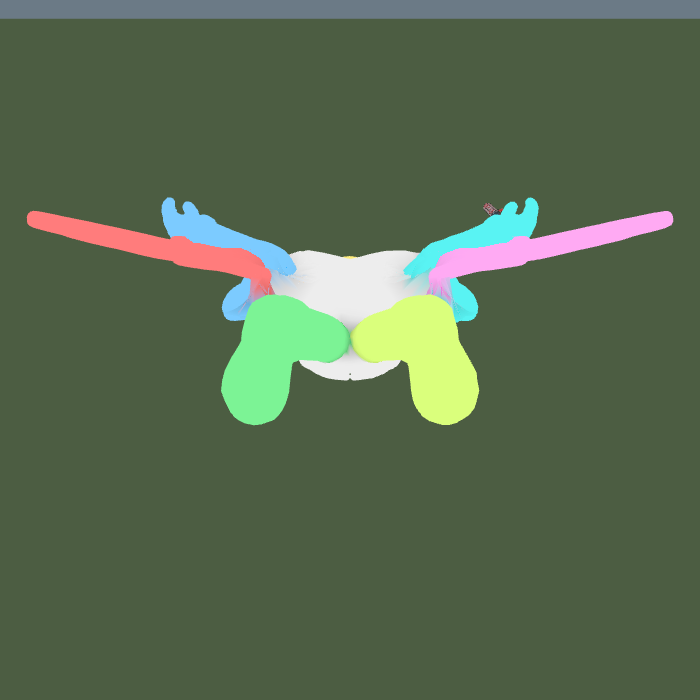
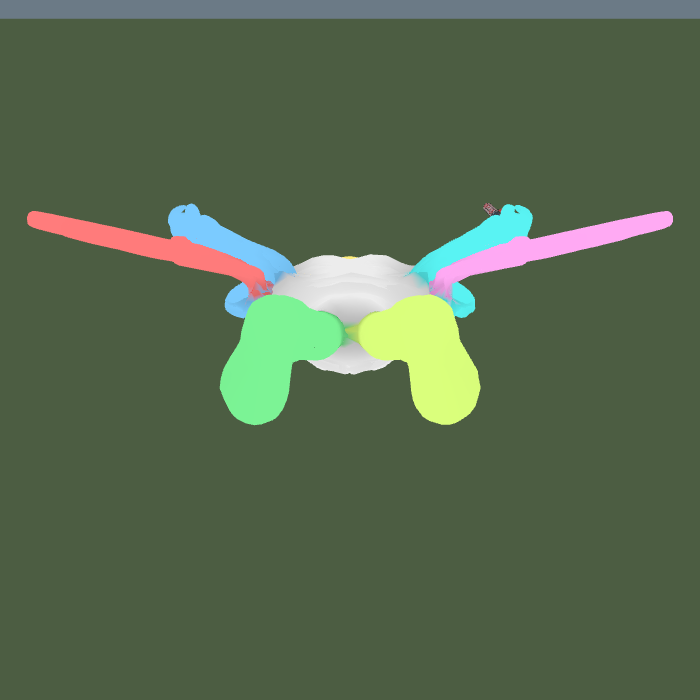
A face, and a shoulder that bends instead of tearing
Two things off the last set of photographs.

The head came back as a smooth egg. No eyes, no mouth, nothing on either side
of it — and a head with no front is a figure whose facing you cannot read at
any distance, which is exactly why the built model has two blocks for eyes
rather than none. Regenerating is the honest fix and the generator is behind a
daily quota with eighteen hours left on it, so it gets a drawn-on face in the
meantime: two eyes and a smile in the dark the built model already uses, on the
head joint so they turn with the head, and a couple of millimetres proud of the
skull because flush the corners sink in and come out notched. The self-test
checks they are on the *front*, since facing backwards is the fault this asset
arrived with.

And the black gashes at both shoulders were the blend, sharpened for a reason
that no longer holds. The sixth power was a splint: while distance was measured
straight-line, any softness let the arm claim the flank and web the two
together, so the blend had to be squeezed to nothing to keep them apart — and a
shoulder with no blend in it does not bend, it tears. The arm swings a hundred
and forty degrees in a glide and the triangles between what moved and what did
not stretched until you could see through them into the sleeve.

Measured along the surface they are four times further apart than the flank is
from the middle of the chest, and no exponent turns that around, so the blend
[…]

diff --git a/src/player/avatar.js b/src/player/avatar.js
@@ -371,14 +371,22 @@ const SCAN_WING_TUCK = 0.6;
 /**
  * How sharply a vertex prefers its nearest joint.
  *
- * Cubed was too soft. A shoulder rotates through ninety degrees when the arms
- * go out, and at that angle a wide half-and-half band does not bend, it webs:
- * the arm and the chest stay joined by a sheet of stretched triangles, which
- * from above is a man twice his own width with the surface torn open where the
- * stretch went past inside out. The sixth power keeps the blend to the joint
- * itself, which is the only place a blend belongs.
+ * The sixth power was a splint for the wrong measurement. While distance was
+ * straight-line, a soft blend let the arm claim the flank and web the two
+ * together, so the blend had to be squeezed almost to nothing to keep them
+ * apart — and a shoulder with almost no blend in it does not bend, it tears:
+ * the arm swings a hundred and forty degrees in a glide and the triangles
+ * between what moved and what did not stretch into the black gashes at both
+ * shoulders.
+ *
+ * Measured along the surface the two are far apart on their own, so the blend
+ * can go back to being a blend. Squared spreads the give at each joint over
+ * about a hand's width of skin, which is what closes the gashes, and still
+ * leaves the flank ninety per cent chest — because over the surface the flank
+ * is four times further from the arm than from the middle of the chest, and
+ * no exponent turns that around.
  */
-const SKIN_FALLOFF = 6;
+const SKIN_FALLOFF = 2;
 /** Added to every distance so a vertex sitting on a bone is not divided by
  *  zero, and so the joint itself blends rather than snapping. */
 const SKIN_SOFTEN = 0.015;
@@ -1159,6 +1167,48 @@ export class Avatar {
   }
 
   /**
+   * A face for the scan, because it was generated without one.
+   *
+   * The head comes back as a smooth egg — no eyes, no mouth, nothing on either
+   * side of it — and a head with no front is a figure with no direction: from
+   * any distance at all you cannot tell which way it is looking, which is the
+   * same reason the built model has two blocks for eyes rather than none.
+   * Regenerating the mesh would be the honest fix and the generator is behind
+   * a daily quota, so it gets a drawn-on face in the meantime: two eyes and a
+   * smile, in the same dark the built model uses, sitting a couple of
+   * millimetres proud of the skull so they never sink into it.
+   *
+   * Hung off the head joint, so it turns when the head turns.
+   */
+  makeScanFace() {
+    // Measured off the mesh: the head is a ball of radius 0.071 about
+    // (0, 0.93, -0.042), so its front is at z = -0.113. These sit on that
+    // surface, in the bone's own frame, and a couple of millimetres proud of
+    // it — flush, the corners of the eyes sink into the skull and come out
+    // notched.
+    const face = new THREE.Group();
+    const skin = new THREE.MeshStandardMaterial({
+      color: 0x25201c, roughness: 0.9, metalness: 0,
+    });
+    const eye = new THREE.BoxGeometry(0.022, 0.016, 0.006);
+    for (const side of [-1, 1]) {
+      const one = new THREE.Mesh(eye, skin);
+      one.position.set(side * 0.030, 0.028, -0.108);
+      face.add(one);
+    }
+    // A smile rather than a line: an arc of a ring, turned so the open side is
+    // upwards. A straight mouth on a blank head reads as a slot.
+    const arc = Math.PI * 0.8;
+    const mouth = new THREE.Mesh(
+      new THREE.TorusGeometry(0.026, 0.0045, 5, 14, arc), skin,
+    );
+    mouth.rotation.z = -Math.PI / 2 - arc / 2;
+    mouth.position.set(0, -0.026, -0.101);
+    face.add(mouth);
+    return face;
+  }
+
+  /**
    * The top of the head: the highest point in a narrow column up the midline.
    *
    * Anything a scanned figure wears on its back can out-reach its own skull —
@@ -1223,6 +1273,10 @@ export class Avatar {
       this.scanSkins.push(skinned);
     }
     group.add(bones[0]);
+    // The face goes on the head joint, so it turns with the head and is hidden
+    // with the rest of the scan in first person.
+    this.scanFace = this.makeScanFace();
+    named.head.add(this.scanFace);
     return group;
   }
 
